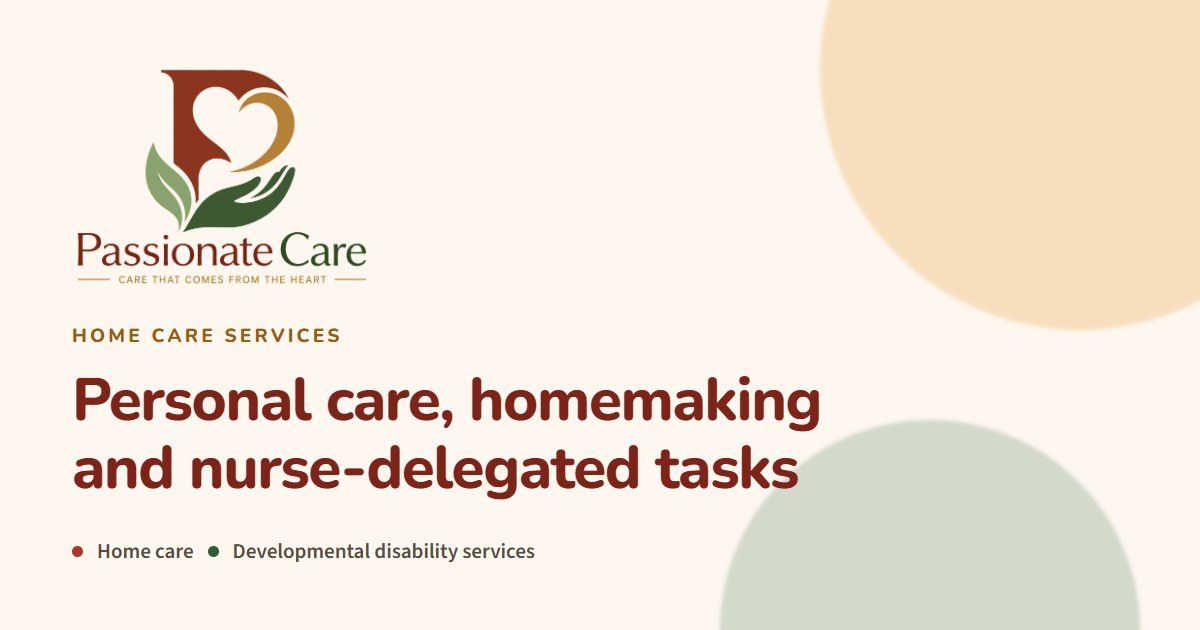
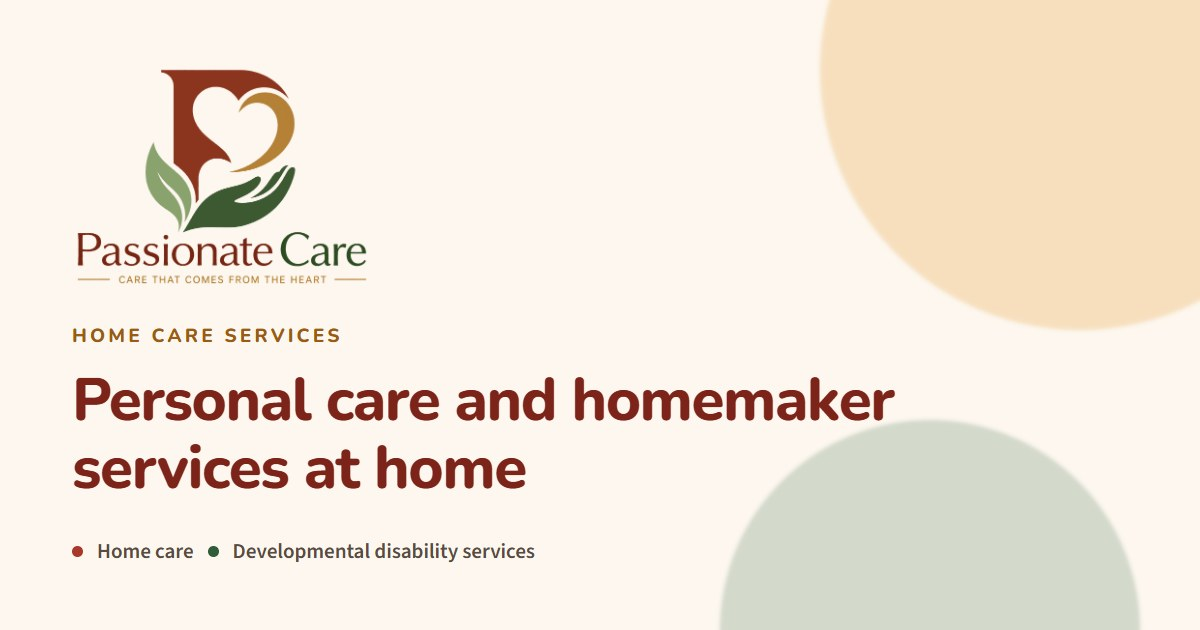
Rebuild: health maintenance activities removed
Rebuilt by scratchpad/builddeploy.py and passed scratchpad/deploygate.py.

There is no registered-nurse arrangement for task delegation, so the agency
cannot offer a health maintenance activity, and the seven it had advertised by
name are gone along with everything that implied them - including the share card
that had "nurse-delegated tasks" rendered into the image.

What the site offers now is personal care, homemaker services, and the four
approved PASA services. Nothing on it is a placeholder and no TODO markers
remain.

Every page still carries a noindex and the canonicals still point at the
production domain: this remains a preview.

Claude-Session: https://claude.ai/code/session_01NrXGej6n8QzxAHK9VwGgY3

Changed region(s): [[0.0617, 0.6032, 0.74, 0.8143]]

diff --git a/home-care-services/index.html b/home-care-services/index.html
@@ -6,11 +6,11 @@
 <meta name="robots" content="noindex, nofollow">
 <!-- Preview deploy only. Remove this line for the real domain. -->
 <title>Home Care Services in Denver | Personal Care &amp; Homemaker | Passionate Care</title>
-<meta name="description" content="Personal care, homemaker services and nurse-delegated health maintenance activities at home across Denver &mdash; described as a day rather than a list of service names.">
+<meta name="description" content="Personal care and homemaker services at home across the Denver metro &mdash; described as a day rather than a list of service names.">
 <link rel="canonical" href="https://passionatecarecolorado.com/home-care-services/">
 
 <meta property="og:title" content="Home care services in Denver, described as a day">
-<meta property="og:description" content="Personal care, homemaker services and nurse-delegated health maintenance activities at home across Denver &mdash; described as a day rather than a list of service names.">
+<meta property="og:description" content="Personal care and homemaker services at home across the Denver metro &mdash; described as a day rather than a list of service names.">
 <meta property="og:type" content="article">
 <meta property="og:url" content="https://passionatecarecolorado.com/home-care-services/">
 <meta property="og:site_name" content="Passionate Care">
@@ -18,7 +18,7 @@
 <meta property="og:image" content="https://passionatecarecolorado.com/assets/img/og-services.jpg">
 <meta property="og:image:width" content="1200">
 <meta property="og:image:height" content="630">
-<meta property="og:image:alt" content="The Passionate Care logo — a brick letter P cradling a heart, above a green hand and a leaf — with the wordmark and the line &ldquo;Care that comes from the heart&rdquo;, beside the words &ldquo;Personal care, homemaking and nurse-delegated tasks&rdquo;.">
+<meta property="og:image:alt" content="The Passionate Care logo — a brick letter P cradling a heart, above a green hand and a leaf — with the wordmark and the line &ldquo;Care that comes from the heart&rdquo;, beside the words &ldquo;Personal care and homemaker services at home&rdquo;.">
 <meta name="twitter:card" content="summary_large_image">
 
 <link rel="icon" href="/passionate-care-preview/assets/img/logo-emblem-32.png" sizes="32x32" type="image/png">
@@ -118,7 +118,7 @@
       <ol class="steps">
         <li>
           <h3>The morning</h3>
-          <p>Getting up, washing or showering, dressing, hair and teeth, the bathroom, medication if it is authorised, breakfast, and out of the door on time if there is somewhere to be.</p>
+          <p>Getting up, washing or showering, dressing, hair and teeth, the bathroom, a reminder if medication is due, breakfast, and out of the door on time if there is somewhere to be.</p>
         </li>
         <li>
           <h3>The middle</h3>
@@ -126,7 +126,7 @@
         </li>
         <li>
           <h3>The evening</h3>
-          <p>An evening meal, tidying up, help changing and washing, evening medication if authorised, and getting into bed without a fall.</p>
+          <p>An evening meal, tidying up, help changing and washing, an evening medication reminder, and getting into bed without a fall.</p>
         </li>
       </ol>
       <div class="media-row media-row-2">
@@ -204,44 +204,6 @@
           <li>Errands: the pharmacy, the post office, picking things up</li>
           <li>Taking the bins out and other small jobs that stop happening first</li>
         </ul>
-      </div>
-    </div>
-  </section>
-
-  <section class="band band-moss" aria-labelledby="hma-h">
-    <div class="wrap split split-wide">
-      <div class="prose">
-        <!-- TODO: HMA - confirm the agency has registered-nurse delegation for health maintenance activities. The CDPHE class is non-medical (personal care and homemaker); HMAs are lawful for an unlicensed caregiver only once an RN has delegated the specific task, so this is a capability claim until that nurse is confirmed. -->
-        <span class="eyebrow">Health maintenance activities</span>
-        <h2 id="hma-h">Nurse-level tasks, done by a trained caregiver</h2>
-        <p>
-          Some of what a person needs at home is genuinely clinical. Colorado allows a registered
-          nurse to delegate specific tasks to a caregiver &mdash; but only after that nurse has watched
-          them do it and validated their skill at that particular task, for that particular person.
-        </p>
-        <p>
-          It is task by task and person by person. Being signed off to manage one person&rsquo;s feeding
-          tube is not a general qualification, and we do not treat it as one. If a task has not been
-          validated, the caregiver does not do it.
-        </p>
-        <p>
-          This is where a family most needs to reach somebody who knows what they are talking
-          about. <a href="/passionate-care-preview/contact/">Ask us how oversight works here.</a>
-        </p>
-      </div>
-
-      <div class="fact-card">
-        <h3>Tasks that may be delegated</h3>
-        <ul>
-          <li>Giving medication</li>
-          <li>Feeding through a gastrostomy tube</li>
-          <li>Catheter care</li>
-          <li>A bowel programme</li>
-          <li>Wound care</li>
-          <li>Blood-sugar checks</li>
-          <li>Respiratory care</li>
-        </ul>
-        <p>Each one validated separately, by a registered nurse, before it is carried out.</p>
       </div>
     </div>
   </section>

diff --git a/cfc-colorado/index.html b/cfc-colorado/index.html
@@ -18,7 +18,7 @@
 <meta property="og:image" content="https://passionatecarecolorado.com/assets/img/og-services.jpg">
 <meta property="og:image:width" content="1200">
 <meta property="og:image:height" content="630">
-<meta property="og:image:alt" content="The Passionate Care logo — a brick letter P cradling a heart, above a green hand and a leaf — with the wordmark and the line &ldquo;Care that comes from the heart&rdquo;, beside the words &ldquo;Personal care, homemaking and nurse-delegated tasks&rdquo;.">
+<meta property="og:image:alt" content="The Passionate Care logo — a brick letter P cradling a heart, above a green hand and a leaf — with the wordmark and the line &ldquo;Care that comes from the heart&rdquo;, beside the words &ldquo;Personal care and homemaker services at home&rdquo;.">
 <meta name="twitter:card" content="summary_large_image">
 
 <link rel="icon" href="/passionate-care-preview/assets/img/logo-emblem-32.png" sizes="32x32" type="image/png">
@@ -43,7 +43,7 @@
     {
       "@type": "Question",
       "name": "What is Community First Choice?",
-      "acceptedAnswer": { "@type": "Answer", "text": "It is part of Colorado’s standard Medicaid package, and it funds attendant support at home: help with everyday personal tasks, keeping a household running, and certain health maintenance activities. It is usually shortened to CFC. The important thing about it is that it sits in the state plan rather than in a waiver, which changes how people get to it." }
+      "acceptedAnswer": { "@type": "Answer", "text": "It is part of Colorado’s standard Medicaid package, and it funds attendant support at home: help with everyday personal tasks and keeping a household running. It is usually shortened to CFC. The important thing about it is that it sits in the state plan rather than in a waiver, which changes how people get to it." }
     },
     {
       "@type": "Question",
@@ -211,9 +211,9 @@
   <section class="band band-moss" aria-labelledby="covers-h">
     <div class="wrap">
       <span class="eyebrow">What it pays for</span>
-      <h2 id="covers-h">Attendant support, in three kinds</h2>
+      <h2 id="covers-h">Attendant support, in two kinds</h2>
       <p>
-        The same three service types that run under
+        The same service types that run under
         <a href="/passionate-care-preview/in-home-support-services/">In-Home Support Services</a>. What an individual is
         authorised for comes from their assessment, not from this list.
       </p>
@@ -232,14 +232,6 @@
           </span>
           <h3>Homemaker services</h3>
           <p>Keeping the household going when a disability makes it hard: cleaning, laundry, cooking, the shopping, the errands nobody else has time for.</p>
-        </article>
-        <article class="card">
-          <span class="tile tile-moss" aria-hidden="true">
-            <svg width="24" height="24" viewBox="0 0 24 24" fill="none" stroke="currentColor" stroke-width="2" stroke-linecap="round" stroke-linejoin="round" aria-hidden="true" focusable="false"><path d="M3 12h3.5L9 6.5 12 17l2.5-5H21"/></svg>
-          </span>
-          <!-- TODO: HMA - confirm the agency has registered-nurse delegation for health maintenance activities. The CDPHE class is non-medical (personal care and homemaker); HMAs are lawful for an unlicensed caregiver only once an RN has delegated the specific task, so this is a capability claim until that nurse is confirmed. -->
-          <h3>Health maintenance activities</h3>
-          <p>Nurse-level tasks a caregiver may take on after a registered nurse has watched them do it and signed them off &mdash; medication, tube feeding, catheter care, a bowel programme, blood-sugar checks.</p>
         </article>
       </div>
 
@@ -293,7 +285,7 @@
       <div class="faq faq-2col">
         <details>
           <summary>What is Community First Choice?</summary>
-          <div class="faq-answer"><p>It is part of Colorado&rsquo;s standard Medicaid package, and it funds attendant support at home: help with everyday personal tasks, keeping a household running, and certain health maintenance activities. It is usually shortened to CFC. The important thing about it is that it sits in the state plan rather than in a waiver, which changes how people get to it.</p></div>
+          <div class="faq-answer"><p>It is part of Colorado&rsquo;s standard Medicaid package, and it funds attendant support at home: help with everyday personal tasks and keeping a household running. It is usually shortened to CFC. The important thing about it is that it sits in the state plan rather than in a waiver, which changes how people get to it.</p></div>
         </details>
         <details>
           <summary>What does "state plan benefit" mean, in plain words?</summary>

diff --git a/in-home-support-services/index.html b/in-home-support-services/index.html
@@ -18,7 +18,7 @@
 <meta property="og:image" content="https://passionatecarecolorado.com/assets/img/og-services.jpg">
 <meta property="og:image:width" content="1200">
 <meta property="og:image:height" content="630">
-<meta property="og:image:alt" content="The Passionate Care logo — a brick letter P cradling a heart, above a green hand and a leaf — with the wordmark and the line &ldquo;Care that comes from the heart&rdquo;, beside the words &ldquo;Personal care, homemaking and nurse-delegated tasks&rdquo;.">
+<meta property="og:image:alt" content="The Passionate Care logo — a brick letter P cradling a heart, above a green hand and a leaf — with the wordmark and the line &ldquo;Care that comes from the heart&rdquo;, beside the words &ldquo;Personal care and homemaker services at home&rdquo;.">
 <meta name="twitter:card" content="summary_large_image">
 
 <link rel="icon" href="/passionate-care-preview/assets/img/logo-emblem-32.png" sizes="32x32" type="image/png">
@@ -58,7 +58,7 @@
     {
       "@type": "Question",
       "name": "Which services can be delivered this way?",
-      "acceptedAnswer": { "@type": "Answer", "text": "Personal care, homemaker services, and health maintenance activities. Personal care is hands-on help with the body. Homemaker is help keeping the household running. Health maintenance activities are nurse-level tasks a caregiver may take on after a registered nurse has watched them do it and signed them off for that one task. What a particular person is authorised for comes from their assessment." }
+      "acceptedAnswer": { "@type": "Answer", "text": "Personal care and homemaker services. Personal care is hands-on help with the body; homemaker is help keeping the household running. What a particular person is authorised for comes from their assessment." }
     },
     {
       "@type": "Question",
@@ -268,8 +268,6 @@
         <ul>
           <li><strong>Personal care</strong> &mdash; bathing, dressing, grooming, the bathroom, help with eating, transfers, moving about</li>
           <li><strong>Homemaker</strong> &mdash; cleaning, laundry, meals, shopping, errands</li>
-          <!-- TODO: HMA - confirm the agency has registered-nurse delegation for health maintenance activities. The CDPHE class is non-medical (personal care and homemaker); HMAs are lawful for an unlicensed caregiver only once an RN has delegated the specific task, so this is a capability claim until that nurse is confirmed. -->
-          <li><strong>Health maintenance activities</strong> &mdash; nurse-level tasks after a registered nurse has validated the caregiver&rsquo;s skill at that task</li>
         </ul>
         <p><a href="/passionate-care-preview/home-care-services/">What each of these looks like day to day</a></p>
       </div>
@@ -292,7 +290,7 @@
         </li>
         <li>
           <h3>Hiring, training, oversight</h3>
-          <p>We onboard the caregiver properly &mdash; employment paperwork, required training and the required checks. Health maintenance activities need a registered nurse to sign off each task first, and are arranged separately.</p>
+          <p>We onboard the caregiver properly &mdash; employment paperwork, required training and the required checks.</p>
         </li>
       </ol>
 
@@ -331,7 +329,7 @@
         </details>
         <details>
           <summary>Which services can be delivered this way?</summary>
-          <div class="faq-answer"><p>Personal care, homemaker services, and health maintenance activities. Personal care is hands-on help with the body. Homemaker is help keeping the household running. Health maintenance activities are nurse-level tasks a caregiver may take on after a registered nurse has watched them do it and signed them off for that one task. What a particular person is authorised for comes from their assessment.</p></div>
+          <div class="faq-answer"><p>Personal care and homemaker services. Personal care is hands-on help with the body; homemaker is help keeping the household running. What a particular person is authorised for comes from their assessment.</p></div>
         </details>
         <details>
           <summary>Can a family member really be the paid caregiver?</summary>

diff --git a/index.html b/index.html
@@ -56,7 +56,7 @@
   "image": "https://passionatecarecolorado.com/assets/img/og-default.jpg",
   "email": "info@passionatecarecolorado.com",
   "telephone": "+1-720-432-9703",
-  "description": "Passionate Care is a licensed Colorado home care agency and a Program Approved Service Agency for developmental disability waiver services, working across the Denver metro. The agency provides personal care, homemaker services and health maintenance activities at home, supports family members to be paid caregivers through In-Home Support Services, and provides respite, Supported Community Connections day habilitation, non-medical transportation and residential habilitation for people with intellectual and developmental disabilities.",
+  "description": "Passionate Care is a licensed Colorado home care agency and a Program Approved Service Agency for developmental disability waiver services, working across the Denver metro. The agency provides personal care and homemaker services at home, supports family members to be paid caregivers through In-Home Support Services, and provides respite, Supported Community Connections day habilitation, non-medical transportation and residential habilitation for people with intellectual and developmental disabilities.",
   "areaServed": [
     { "@type": "AdministrativeArea", "name": "Denver County, Colorado" },
     { "@type": "AdministrativeArea", "name": "Adams County, Colorado" },
@@ -81,8 +81,7 @@
     "Non-Medical Transportation",
     "Residential Habilitation Services",
     "Personal care",
-    "Homemaker services",
-    "Health Maintenance Activities"
+    "Homemaker services"
   ]
 }
 </script>
@@ -248,7 +247,6 @@
           <ul class="roof-list">
             <li>Personal care &mdash; bathing, dressing, grooming, eating, getting around</li>
             <li>Homemaker &mdash; cleaning, laundry, meals, shopping, errands</li>
-            <li>Health maintenance activities a nurse has signed a caregiver off to do</li>
             <li>In-Home Support Services, where your family picks the caregiver</li>
             <li>Community First Choice hours, alongside a waiver or on their own</li>
           </ul>

diff --git a/paid-family-caregiver-colorado/index.html b/paid-family-caregiver-colorado/index.html
@@ -53,7 +53,7 @@
     {
       "@type": "Question",
       "name": "Do I need a certificate or previous experience?",
-      "acceptedAnswer": { "@type": "Answer", "text": "No. The whole idea behind In-Home Support Services is that the person receiving care trains the person giving it, because they know how they like things done. There is no nursing assistant certificate to earn first. You complete our onboarding and the training the state requires. Health maintenance activities are a separate matter: each one has to be signed off by a registered nurse before anybody takes it on, so ask about those specifically." }
+      "acceptedAnswer": { "@type": "Answer", "text": "No. The whole idea behind In-Home Support Services is that the person receiving care trains the person giving it, because they know how they like things done. There is no nursing assistant certificate to earn first. You complete our onboarding and the training the state requires." }
     },
     {
       "@type": "Question",
@@ -539,7 +539,7 @@
         </details>
         <details>
           <summary>Do I need a certificate or previous experience?</summary>
-          <div class="faq-answer"><p>No. The whole idea behind In-Home Support Services is that the person receiving care trains the person giving it, because they know how they like things done. There is no nursing assistant certificate to earn first. You complete our onboarding and the training the state requires. Health maintenance activities are a separate matter: each one has to be signed off by a registered nurse before anybody takes it on, so ask about those specifically.</p></div>
+          <div class="faq-answer"><p>No. The whole idea behind In-Home Support Services is that the person receiving care trains the person giving it, because they know how they like things done. There is no nursing assistant certificate to earn first. You complete our onboarding and the training the state requires.</p></div>
         </details>
         <details>
           <summary>What will I actually be paid?</summary>

diff --git a/who-we-serve/index.html b/who-we-serve/index.html
@@ -104,7 +104,7 @@
       <div class="band-head">
         <div class="band-head-title">
           <span class="eyebrow">The people</span>
-          <h2 id="people-h">Six groups we are set up for</h2>
+          <h2 id="people-h">Five groups we are set up for</h2>
         </div>
         <div class="band-head-body">
           <p>
@@ -167,18 +167,6 @@
           <p>
             Support built around routine, prompting and consistency, where the same person turning up
             at the same time matters more than almost anything else on the care plan.
-          </p>
-        </article>
-        <article class="card">
-          <span class="tile tile-ochre" aria-hidden="true">
-            <svg width="24" height="24" viewBox="0 0 24 24" fill="none" stroke="currentColor" stroke-width="2" stroke-linecap="round" stroke-linejoin="round" aria-hidden="true" focusable="false"><path d="M4 12h3l2.2-5 3.2 10 2.2-5H20"/></svg>
-          </span>
-          <!-- TODO: HMA - confirm the agency has registered-nurse delegation for health maintenance activities. The CDPHE class is non-medical (personal care and homemaker); HMAs are lawful for an unlicensed caregiver only once an RN has delegated the specific task, so this is a capability claim until that nurse is confirmed. -->
-          <h3>Medically complex children and adults</h3>
-          <p>
-            Where feeding tubes, catheters, bowel programmes, wound care or respiratory support are
-            part of ordinary life. Delivered as health maintenance activities, each task validated by
-            a registered nurse before a caregiver carries it out.
           </p>
         </article>
       </div>

diff --git a/careers/index.html b/careers/index.html
@@ -121,8 +121,7 @@
           </span>
           <h3>Caregiver, in someone&rsquo;s home</h3>
           <p>
-            Personal care, homemaking, and where a nurse has validated you for it, health maintenance
-            tasks. Steady hours with the same person or two. Suits people who would rather go deep
+            Personal care and homemaking. Steady hours with the same person or two. Suits people who would rather go deep
             with a few households than shallow with twenty.
           </p>
         </article>
@@ -164,9 +163,8 @@
         <span class="eyebrow">What we look for</span>
         <h2 id="need-h">Reliability beats a CV, most days</h2>
         <p>
-          There is no certificate to earn before you start. Health maintenance tasks require
-          a registered nurse to validate your skill at each specific task before you carry it out,
-          and that happens after you are hired, not before.
+          There is no certificate to earn before you start. The training the state requires
+          happens after you are hired, not before.
         </p>
         <p>
           What we cannot train into somebody is turning up. A person with an intellectual or
@@ -190,7 +188,7 @@
           <h3>What you get</h3>
           <ul>
             <li>Employment with tax withheld and workers&rsquo; compensation cover</li>
-            <li>Training, and nurse validation for delegated tasks</li>
+            <li>Training, and the checks the state requires</li>
             <li>Consistent placements rather than a different address daily</li>
             <li>Someone to ring who knows the people you support</li>
           </ul>

diff --git a/transportation-and-residential-services/index.html b/transportation-and-residential-services/index.html
@@ -186,7 +186,7 @@
             <svg width="24" height="24" viewBox="0 0 24 24" fill="none" stroke="currentColor" stroke-width="2" stroke-linecap="round" stroke-linejoin="round" aria-hidden="true" focusable="false"><path d="M12 2.8 4.5 6v6.2c0 4.6 3.1 8.5 7.5 9.9 4.4-1.4 7.5-5.3 7.5-9.9V6L12 2.8Z"/></svg>
           </span>
           <h3>Health and safety</h3>
-          <p>Medication routines, appointments kept, food that is actually eaten, and knowing what to do when something goes wrong at eleven at night.</p>
+          <p>Medication reminders, appointments kept, food that is actually eaten, and knowing what to do when something goes wrong at eleven at night.</p>
         </article>
       </div>
 
@@ -265,7 +265,7 @@
         </article>
         <article class="card">
           <h3><a href="/passionate-care-preview/home-care-services/">Home care</a></h3>
-          <p>Personal care, homemaking and nurse-delegated tasks, wherever the person lives.</p>
+          <p>Personal care and homemaking, wherever the person lives.</p>
         </article>
       </div>
     </div>

diff --git a/for-case-managers/index.html b/for-case-managers/index.html
@@ -146,8 +146,6 @@
           <ul>
             <li>Personal care</li>
             <li>Homemaker services</li>
-            <!-- TODO: HMA - confirm the agency has registered-nurse delegation for health maintenance activities. The CDPHE class is non-medical (personal care and homemaker); HMAs are lawful for an unlicensed caregiver only once an RN has delegated the specific task, so this is a capability claim until that nurse is confirmed. -->
-            <li>Health maintenance activities, nurse-delegated</li>
             <li>Member-directed (In-Home Support Services) and agency-directed arrangements</li>
           </ul>
         </div>
